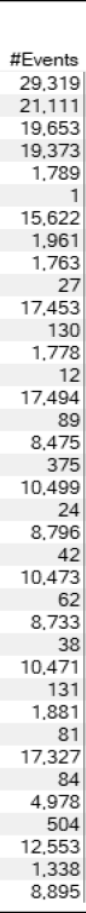
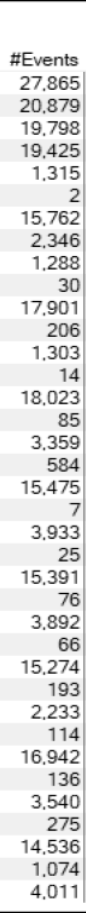
Wprowadzenie zmian dla aplikacji

diff --git a/text_to_table.py b/text_to_table.py
@@ -22,7 +22,12 @@ def remove_squares(obraz):
     for cnt in kontury:
         x, y, w, h = cv2.boundingRect(cnt)
         if 15 < w < 40 and 15 < h < 40:
-            cv2.rectangle(obraz, (x, y), (x + w, y + h), (255, 255, 255), -1)
+            przesuniety_x:int = x-15
+            dodatkowa_szerokosc:int = 15
+            if przesuniety_x <= 0:
+                przesuniety_x = x
+                dodatkowa_szerokosc = 0
+            cv2.rectangle(obraz, (przesuniety_x, y), (przesuniety_x + w + dodatkowa_szerokosc, y + h), (255, 255, 255), -1)
     return obraz
 
 
@@ -107,20 +112,44 @@ def odczytaj_tekst_ze_zdjecia(sciezka) -> str:
         except (ValueError, IndexError):
             pass
 
+    for i in range(len(tekst[1])):
+        try:
+            wartość_str: str = str(tekst[1][i])
+            if "," in wartość_str:
+                wartość_str = wartość_str.replace(",", "")
+                tekst[1][i] = wartość_str
+        except ValueError:
+            pass
+
     for kolumna in [2, 3]:
         for i in range(len(tekst[kolumna])):
             try:
-                wartość_str:str = str(tekst[kolumna][i])
+                wartość_str: str = str(tekst[kolumna][i])
+
+                if wartość_str[0] == "o":
+                    wartość_str = "0." + wartość_str[1:]
+                    tekst[kolumna][i] = wartość_str
+
+                if wartość_str[-1] == ",":
+                    wartość_str = wartość_str[:-1]
+                    tekst[kolumna][i] = wartość_str
+
                 wartość_f: float = float(tekst[kolumna][i])
 
                 if wartość_str[-2] != ".":
+                    print
                     tekst[kolumna][i] = str(float(wartość_f) / 10)
 
                 if wartość_f > 100:
                     tekst[kolumna][i] = str(wartość_f / 10)
 
-                if kolumna == 3 and wartość_f > float(tekst[2][i]):
-                    tekst[kolumna][i] = str(wartość_f / 10)
+                if kolumna == 3:
+                    try:
+                        wartosc_kolumna2 = float(tekst[2][i])
+                        if wartość_f > wartosc_kolumna2:
+                            tekst[kolumna][i] = str(wartość_f / 10)
+                    except ValueError:
+                        pass
             except (ValueError, IndexError):
                 pass
 
@@ -129,7 +158,7 @@ def odczytaj_tekst_ze_zdjecia(sciezka) -> str:
         df = pd.DataFrame(
             {
                 "Nazwy": tekst[0],  # Zawiera nazwy
-                "#Eve434nts": tekst[1],  # Zawiera #EventsS
+                "#Events": tekst[1],  # Zawiera #EventsS
                 "%Parent": tekst[2],  # Zawiera %Parent
                 "%Total": tekst[3],  # Zawiera %Total
             }
@@ -166,11 +195,36 @@ def main_multi(folder_zrodlowy, folder_dla_wynikow):
         if zdjecie.lower().endswith((".png", ".jpg", ".jpeg")):
             sciezka_do_zdjecia = os.path.join(folder_zrodlowy, zdjecie)
             df = odczytaj_tekst_ze_zdjecia(sciezka_do_zdjecia)
+            df.columns = [""] * len(df.columns)
+
+            for col in [1, 2, 3]:
+                if col < len(df.columns):
+                    df.iloc[:, col] = df.iloc[:, col].apply(
+                        lambda x: (
+                            float(x) if str(x).replace(".", "", 1).isdigit() else x
+                        )
+                    )
             nazwa_arkusza = os.path.splitext(zdjecie)[0]
             arkusze[nazwa_arkusza] = df
 
     timestamp = datetime.now().strftime("%Y-%m-%d %H.%M")
     nazwa_pliku_xlsx = os.path.join(folder_dla_wynikow, f"wyniki-{timestamp}.xlsx")
     with pd.ExcelWriter(nazwa_pliku_xlsx, engine="xlsxwriter") as writer:
-        for nazwa_arkusza, df in arkusze.items():  # Teraz mamy df, nie ścieżkę do CSV
+        for nazwa_arkusza, df in arkusze.items():
             df.to_excel(writer, sheet_name=nazwa_arkusza, index=False, header=False)
+            worksheet = writer.sheets[nazwa_arkusza]
+
+            # Zdefiniowanie formatów
+            green_format = writer.book.add_format({'bg_color': '#C6EFCE'})  # Zielony
+
+            # Ustawienie kolorów dla komórek
+            for row_num in range(df.shape[0]):  # iteracja po wierszach
+                for col_num in range(df.shape[1]):  # iteracja po kolumnach
+                    cell_value = df.iat[row_num, col_num]  # Pobranie wartości komórki
+                    if isinstance(cell_value, float):  # Sprawdzenie, czy wartość jest typu float
+                        worksheet.write(row_num, col_num, cell_value, green_format)  # +1 dla nagłówka
+                    else:
+                        worksheet.write(row_num, col_num, cell_value)  # Zapisz wartość bez formatu
+
+
+main_multi("tabele_testowe", "tabele_testowe")
